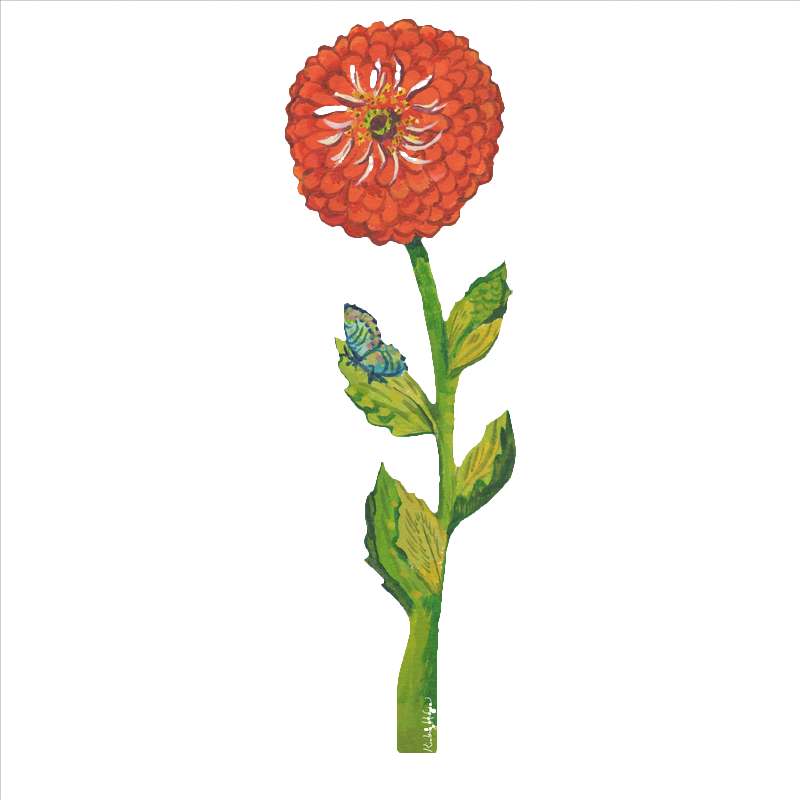
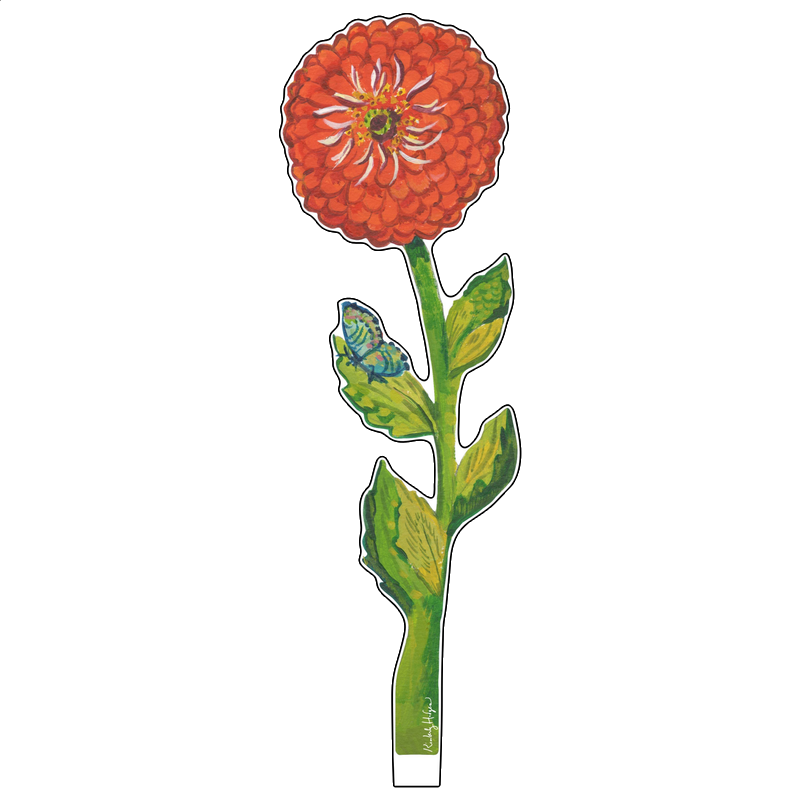
Tighter symmetry, flood-fill background removal, cropped flowers
- Re-processed all flowers from source using flood-fill algorithm
  (connected-component from edges) instead of global threshold
- Flowers auto-trimmed to content bounds via sharp.trim()
- Much tighter overlap for double stands (-15% margins)
- Triple front flowers -28px overlap
- Empty slot placeholders positioned at bottom near base
- Inline disclaimer in cart bar

diff --git a/src/components/Canvas/ArrangementCanvas.css b/src/components/Canvas/ArrangementCanvas.css
@@ -113,9 +113,15 @@
   justify-content: center;
 }
 
+.flowers-row {
+  gap: 0;
+  margin-left: -20%;
+  margin-right: -20%;
+}
+
 .flowers-row > .slot-area {
-  margin-left: -22px;
-  margin-right: -22px;
+  margin-left: -15%;
+  margin-right: -15%;
 }
 
 /* ---------- Stand Base ---------- */
@@ -206,7 +212,6 @@
   object-fit: contain;
   object-position: bottom center;
   pointer-events: none;
-  mix-blend-mode: multiply;
   filter: drop-shadow(2px 4px 6px rgba(0, 0, 0, 0.06));
 }
 
@@ -261,6 +266,7 @@
   background: rgba(255, 255, 255, 0.4);
   backdrop-filter: blur(4px);
   transition: all 0.25s;
+  margin-top: auto;
   margin-bottom: 10px;
 }
 

diff --git a/src/components/Canvas/ArrangementCanvas.tsx b/src/components/Canvas/ArrangementCanvas.tsx
@@ -148,7 +148,7 @@ function SlotView({
       className={`slot-area ${isSelected ? "selected" : ""} ${product ? "has-flower" : "empty-slot"} ${isBack ? "is-back" : ""}`}
       style={{
         height: slot.flowerHeight * scale,
-        width: (slot.size === "LG" ? 180 : 115) * scale,
+        width: (slot.size === "LG" ? 160 : 110) * scale,
       }}
       onClick={(e) => {
         e.stopPropagation();
